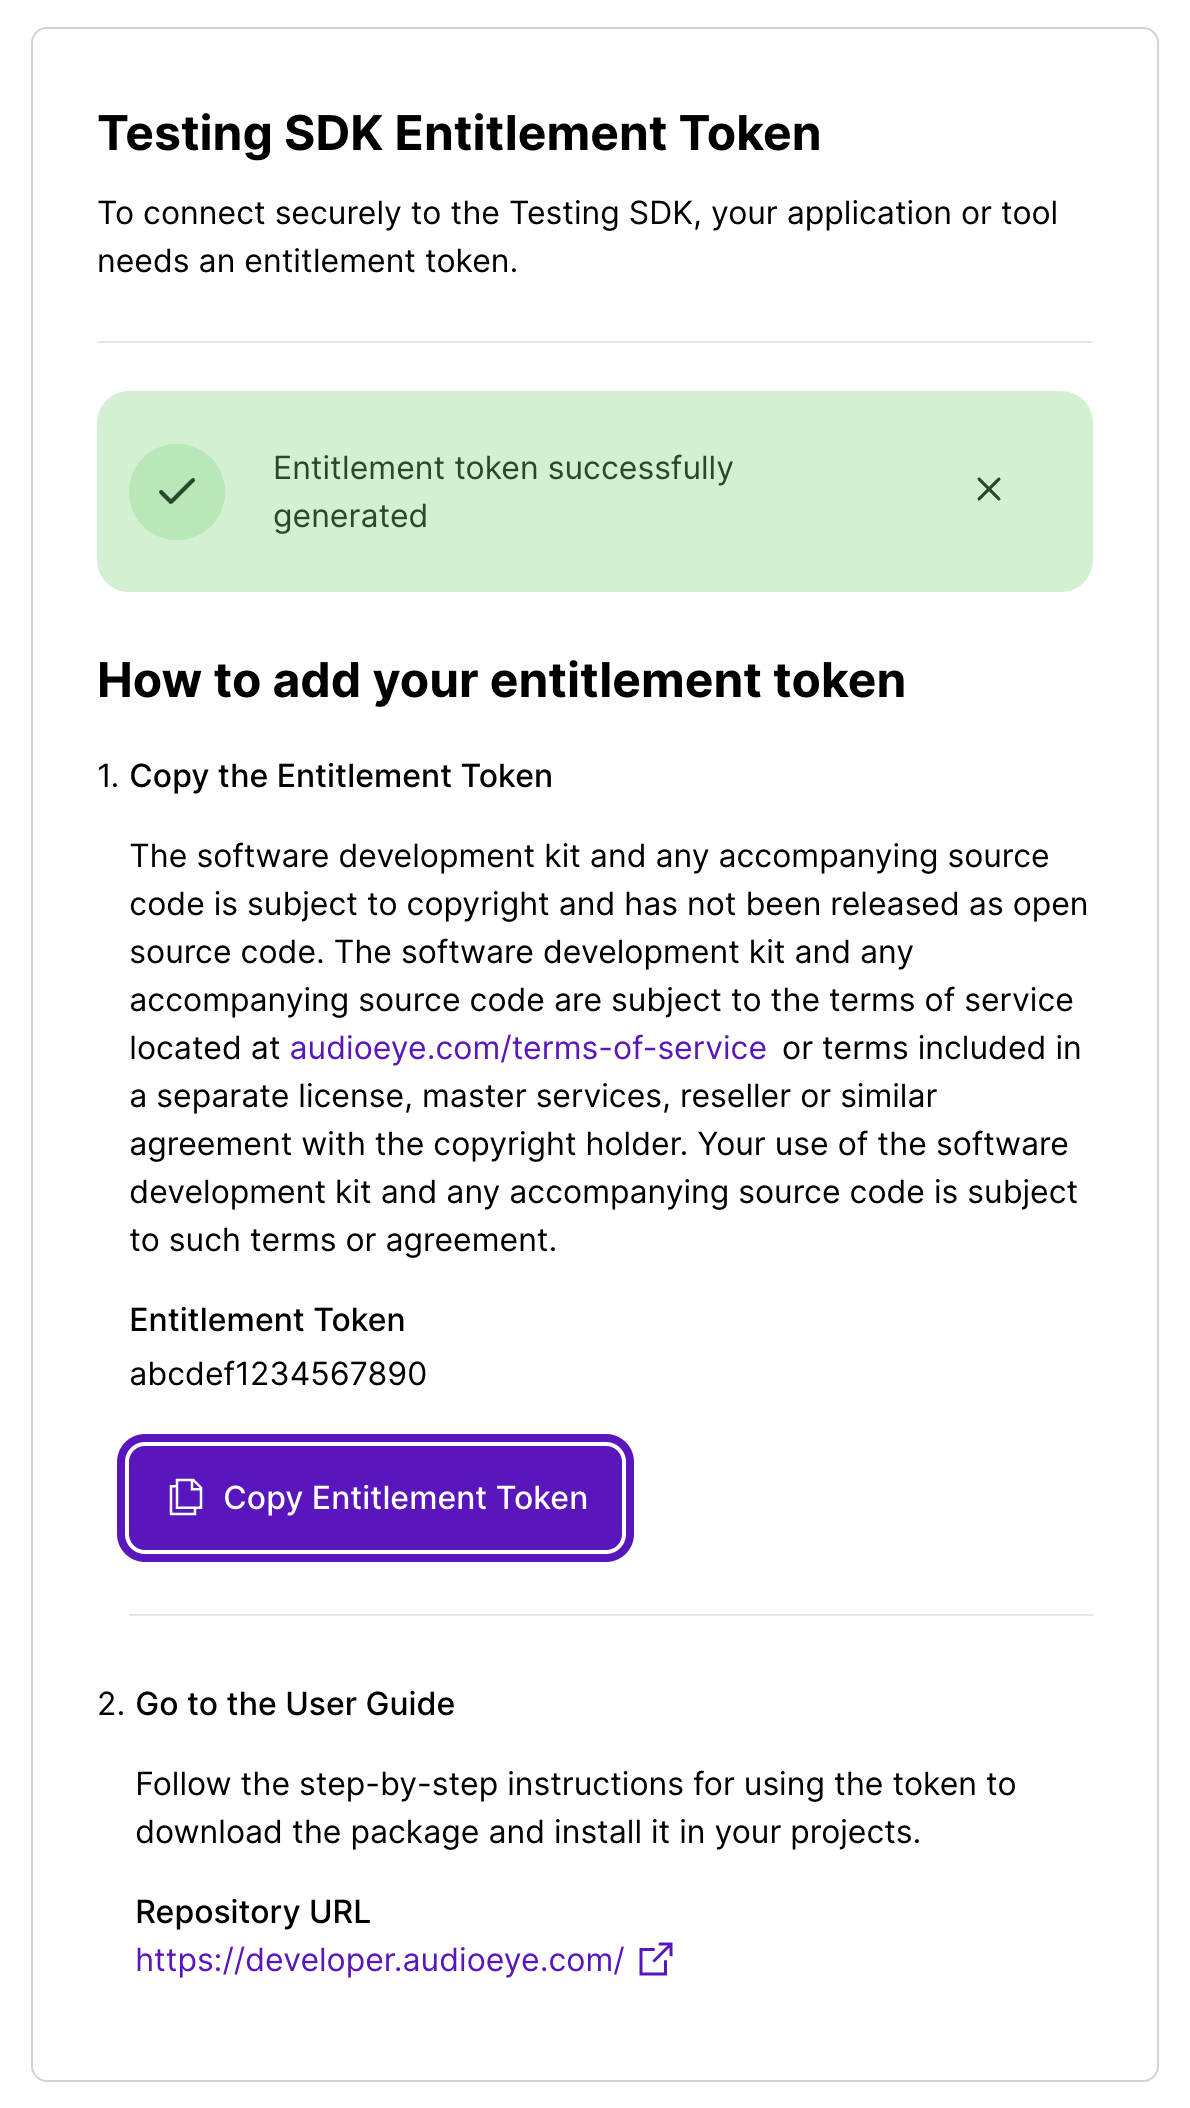
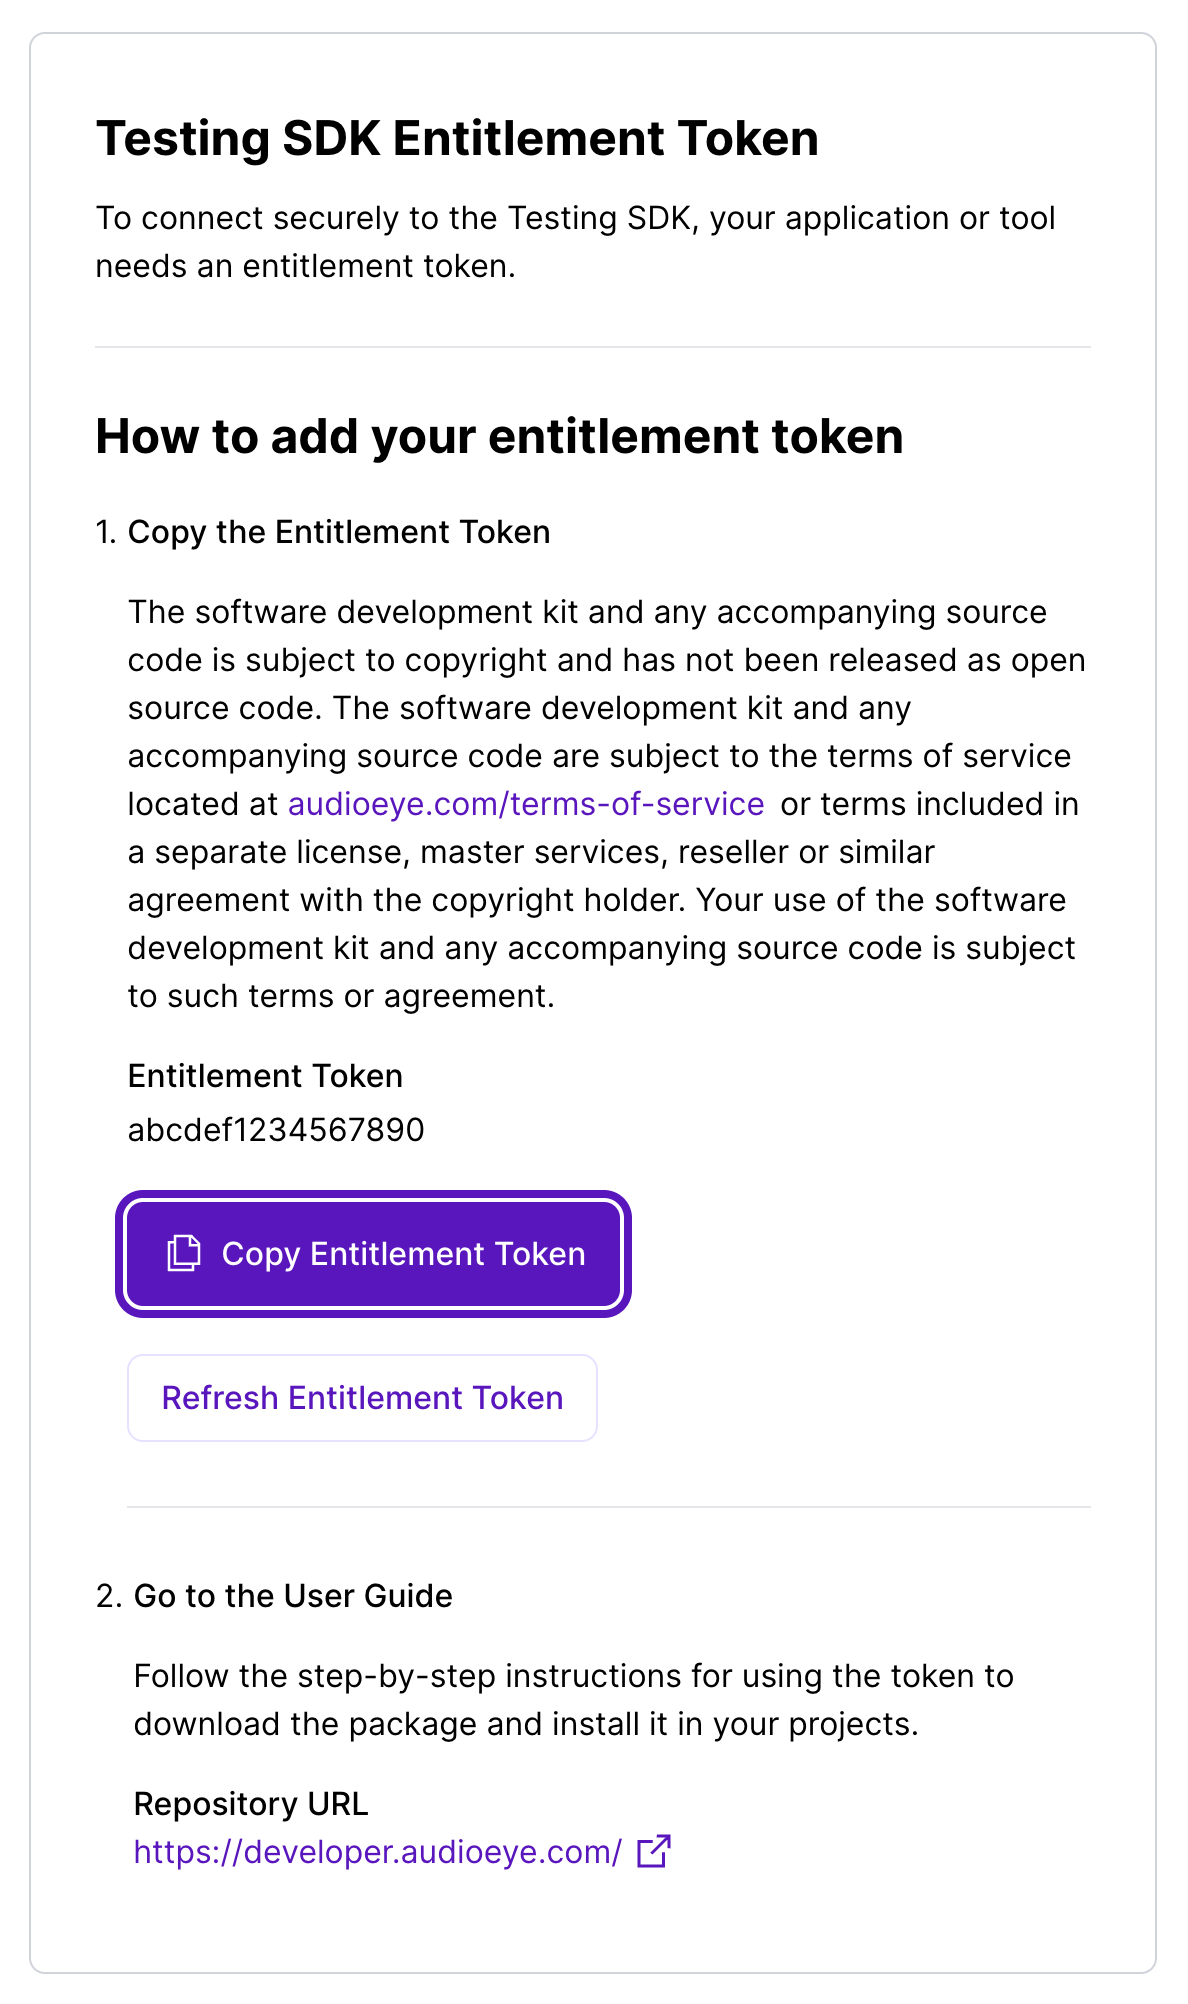
DX-153 | @jwlsinx | Refresh token documentation changes

diff --git a/docs/get-started.md b/docs/get-started.md
@@ -31,6 +31,12 @@ you will need a copy of your AudioEye Entitlement Token. This token is available
 This key can now be used to download the AudioEye Testing SDK packages. We will refer to this key as
 `AUDIOEYE_ENTITLEMENT_TOKEN` in the rest of this document.
 
+::: tip
+Note: If you want to replace your Entitlement Token key with a new one you can use the Refresh Entitlement Token button.
+This will replace your existing token, and your existing projects and workflows will need to be updated to use the new
+token.
+:::
+
 ### Setting up your `.npmrc`
 
 In your node package root directory (where `package.json` lives), add or modify the `.npmrc` file with the following contents:
